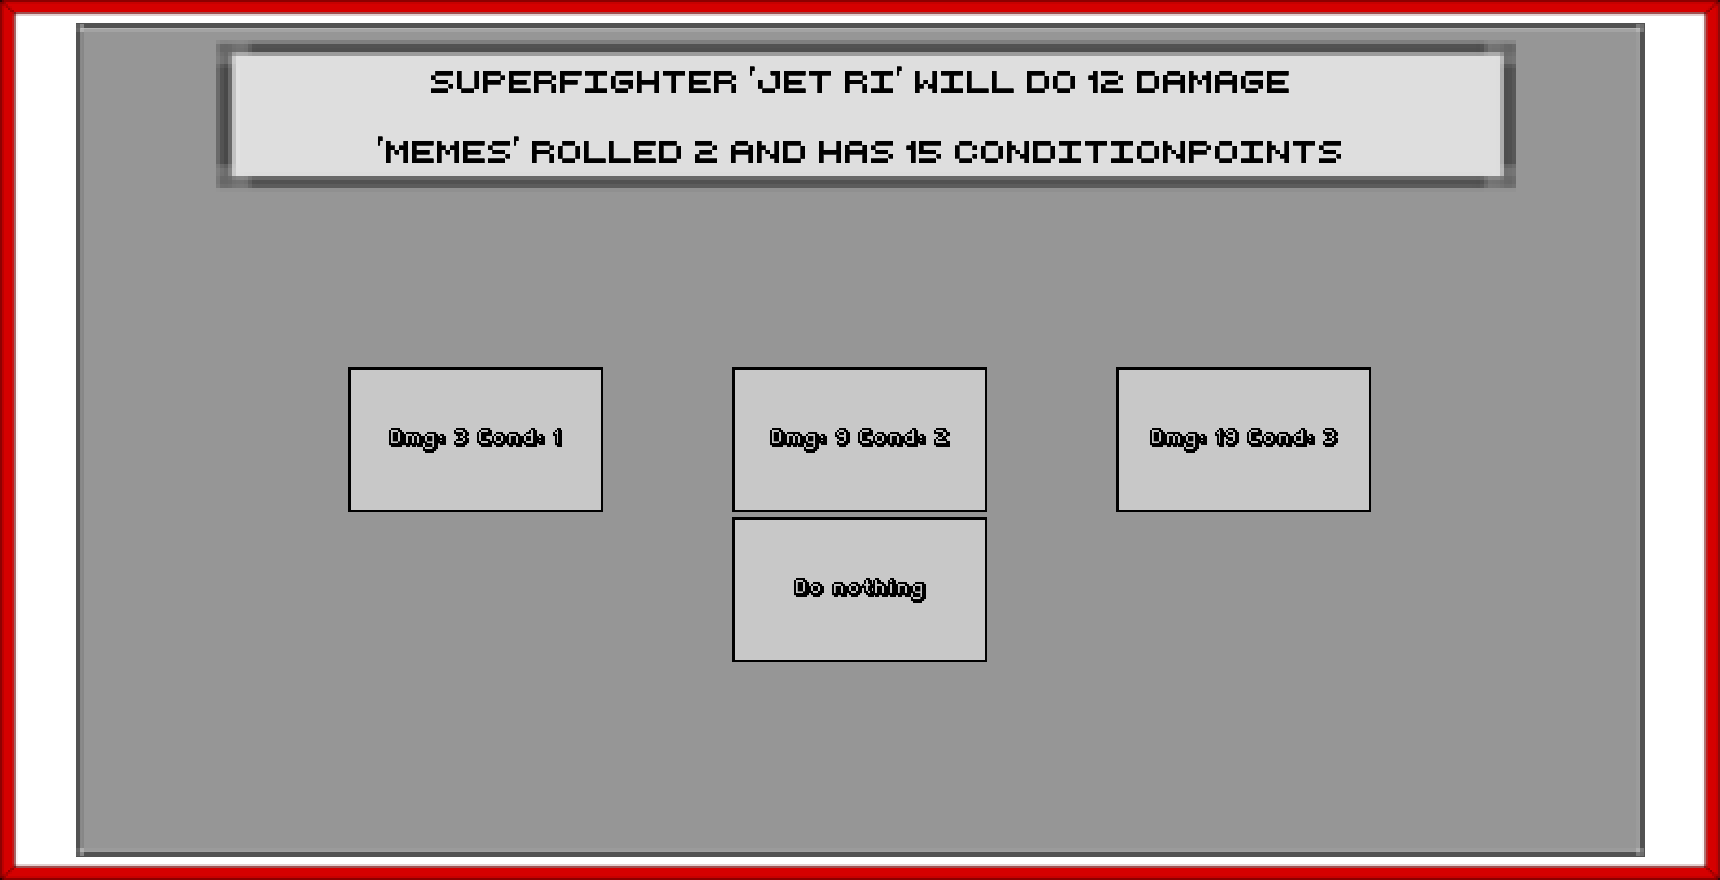
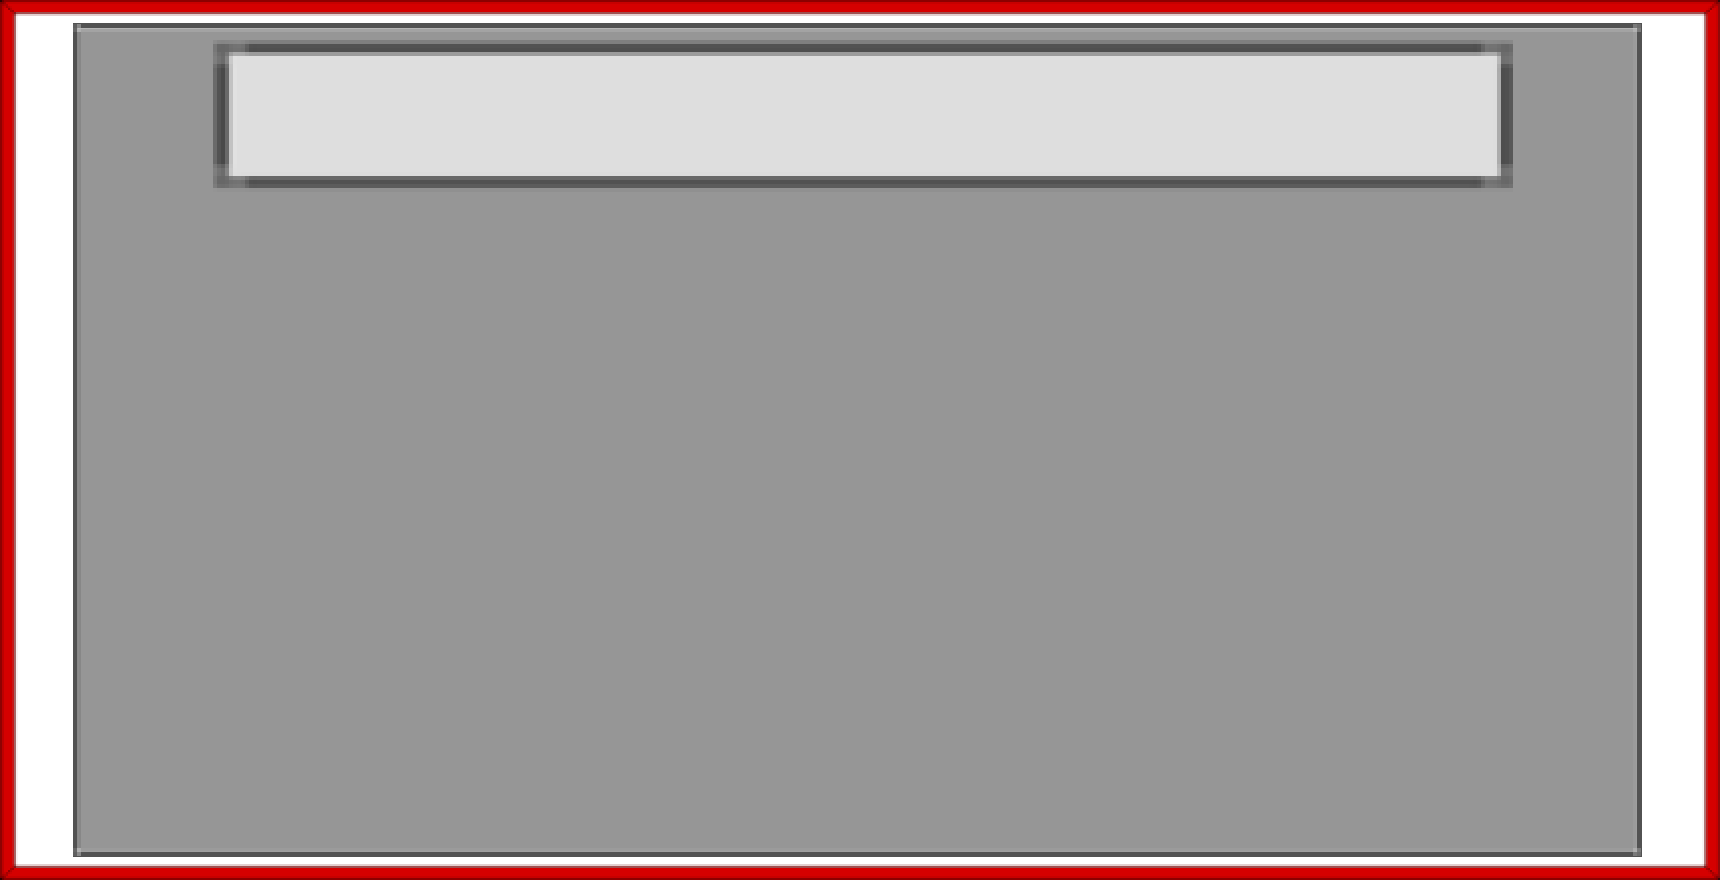
mandenmakerij

diff --git a/Zoomtest/PickChoiceOverlay.py b/Zoomtest/PickChoiceOverlay.py
@@ -236,14 +236,18 @@ def PlayerversusSuperfight(screen,width,height,player1,fighterlist):
     maincolor = (100,100,100)
     font = pygame.font.Font("content\\font\\retro.ttf", 30)
     smallfont = pygame.font.Font("content\\font\\fipps.TTF", 15)
-    square = pygame.Surface((width - 200,height - 200), pygame.SRCALPHA, 32)
-    outline = pygame.Surface((width - 190, height - 190), pygame.SRCALPHA, 32)
+    square = pygame.image.load("content\\eventscreen.png")
+    fillsquare = pygame.Surface((1264,120), pygame.SRCALPHA, 32)
+    fillsquare.fill((222,222,222))
+    # square = pygame.Surface((width - 200,height - 200), pygame.SRCALPHA, 32)
+    #outline = pygame.Surface((width - 190, height - 190), pygame.SRCALPHA, 32)
     bg = pygame.transform.scale(pygame.image.load("content\\bordspel_background.png"), (width,height))
     textButton4 = smallfont.render("Do nothing",1,(64,0,0))
-    square.fill(maincolor)
-    outline.fill((0,0,0))
-    screen.blit(outline, (GetCenter(width,height,outline)))
+    #square.fill(maincolor)
+    #outline.fill((0,0,0))
+    #screen.blit(outline, (GetCenter(width,height,outline)))
     screen.blit(square, (GetCenter(width,height,square)))
+
     fighter = ReturnSuperfighter(fighterlist)
     pygame.display.flip()
     srolled = dice(6)
@@ -265,6 +269,7 @@ def PlayerversusSuperfight(screen,width,height,player1,fighterlist):
   
     rolled = dice(6)
     drawDice(rolled,width,height,screen)
+    screen.blit(fillsquare, (GetCenter(width,height,fillsquare)[0], GetCenter(width,height,fillsquare)[1] - 325 ))
     screen.blit(fightertext, (GetCenter(width,height,fightertext)[0],GetCenter(width,height,fightertext)[1] - (height / 3)))
     rolltext = font.render("'" + player1.Name + "'" + " rolled " + str(rolled) + " and has " + str(player1.Conditionpoints) + " conditionpoints", 1,(0,64,0))
     errtext = font.render("You have too little condition", 1,(242,7,7))
@@ -273,6 +278,7 @@ def PlayerversusSuperfight(screen,width,height,player1,fighterlist):
     buttonoutline = pygame.Surface((255,145), pygame.SRCALPHA, 32)
     button.fill((200,200,200))
     buttonoutline.fill((0,0,0))
+    
     if rolled == 1:
         textButton1 = smallfont.render("Dmg: " + str(player1.dmg.one.one.dmg) + " Cond: " + str(player1.dmg.one.one.cond), 1,(0,0,0))
         returnvalue1 = [player1.dmg.one.one.dmg, player1.dmg.one.one.cond, sdmg]
@@ -317,6 +323,7 @@ def PlayerversusSuperfight(screen,width,height,player1,fighterlist):
         returnvalue3 = [player1.dmg.six.three.dmg, player1.dmg.six.three.cond, sdmg]
     done = False
     while not done:
+        
         screen.blit(buttonoutline, (GetCenter(width,height,buttonoutline)[0] - (width / 5), GetCenter(width,height,buttonoutline)[1]))
         screen.blit(buttonoutline, (GetCenter(width,height,buttonoutline)))
         screen.blit(buttonoutline, (GetCenter(width,height,buttonoutline)[0] + (width / 5), GetCenter(width,height,buttonoutline)[1]))
@@ -329,6 +336,7 @@ def PlayerversusSuperfight(screen,width,height,player1,fighterlist):
         screen.blit(textButton2, (GetCenter(width,height,textButton2)))
         screen.blit(textButton3, (GetCenter(width,height,textButton3)[0] + (width / 5), GetCenter(width,height,textButton3)[1]))
         screen.blit(textButton4, (GetCenter(width,height,textButton4)[0], GetCenter(width,height,textButton4)[1] + 150))
+       
     
         pygame.event.get()
         #Start Game

diff --git a/Zoomtest/Dice.py b/Zoomtest/Dice.py
@@ -20,9 +20,9 @@ def drawDice(roll,width,height,screen):
     diceImg = pygame.image.load("content\\" + str(roll) +".png")
     
     for i in range(0,random.randint(5,9)):
-        screen.blit(pygame.image.load("content\\" + str(dice(6)) + ".png"), (GetCenter(width, height, diceImg)[0] - (width / 2.4), GetCenter(width,height, diceImg)[1] + (height / 2.825)))
+        screen.blit(pygame.image.load("content\\" + str(dice(6)) + ".png"), (GetCenter(width, height, diceImg)[0] - (width / 3), GetCenter(width,height, diceImg)[1] + (height / 3)))
         pygame.display.flip()
         floatmeme = float(random.randint(1,3) / 10)
         time.sleep(floatmeme)
-    screen.blit(diceImg, (GetCenter(width, height, diceImg)[0] - (width / 2.4), GetCenter(width,height, diceImg)[1] + (height / 2.825)))
+    screen.blit(diceImg, (GetCenter(width, height, diceImg)[0] - (width / 3), GetCenter(width,height, diceImg)[1] + (height / 3)))
     pygame.display.flip()

diff --git a/Zoomtest/Basegame.py b/Zoomtest/Basegame.py
@@ -94,7 +94,7 @@ def Menushit(screen,width,height,players,list,fighterlist,board,bg):
             done = True
 
         pygame.display.flip()
-        time.sleep(1)
+        time.sleep(0)
         for i in range (0, len(player)):
           if player[i].Pos == 39:
             player[i].Pos = 0
